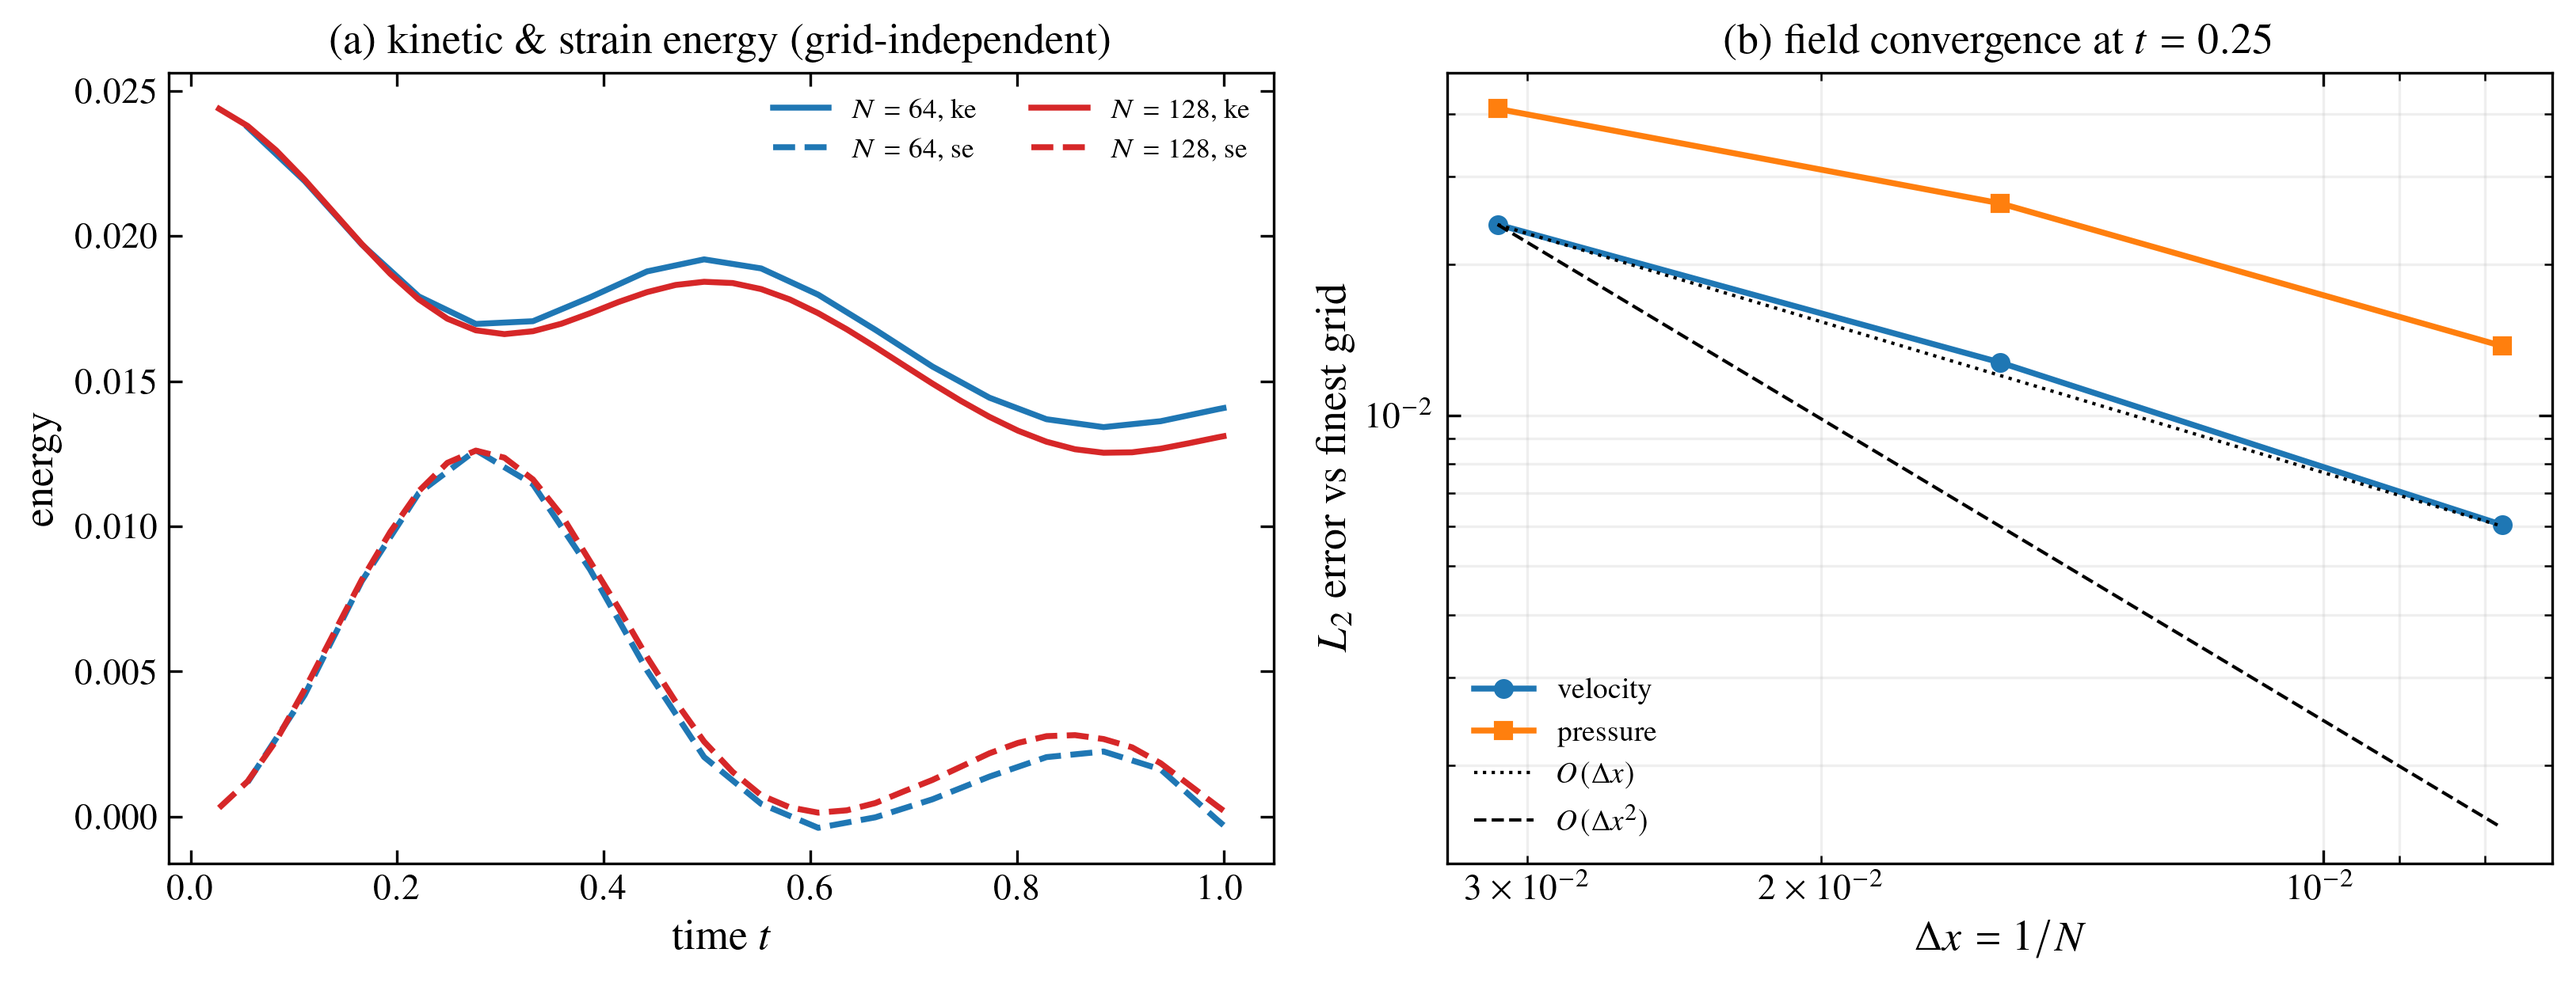
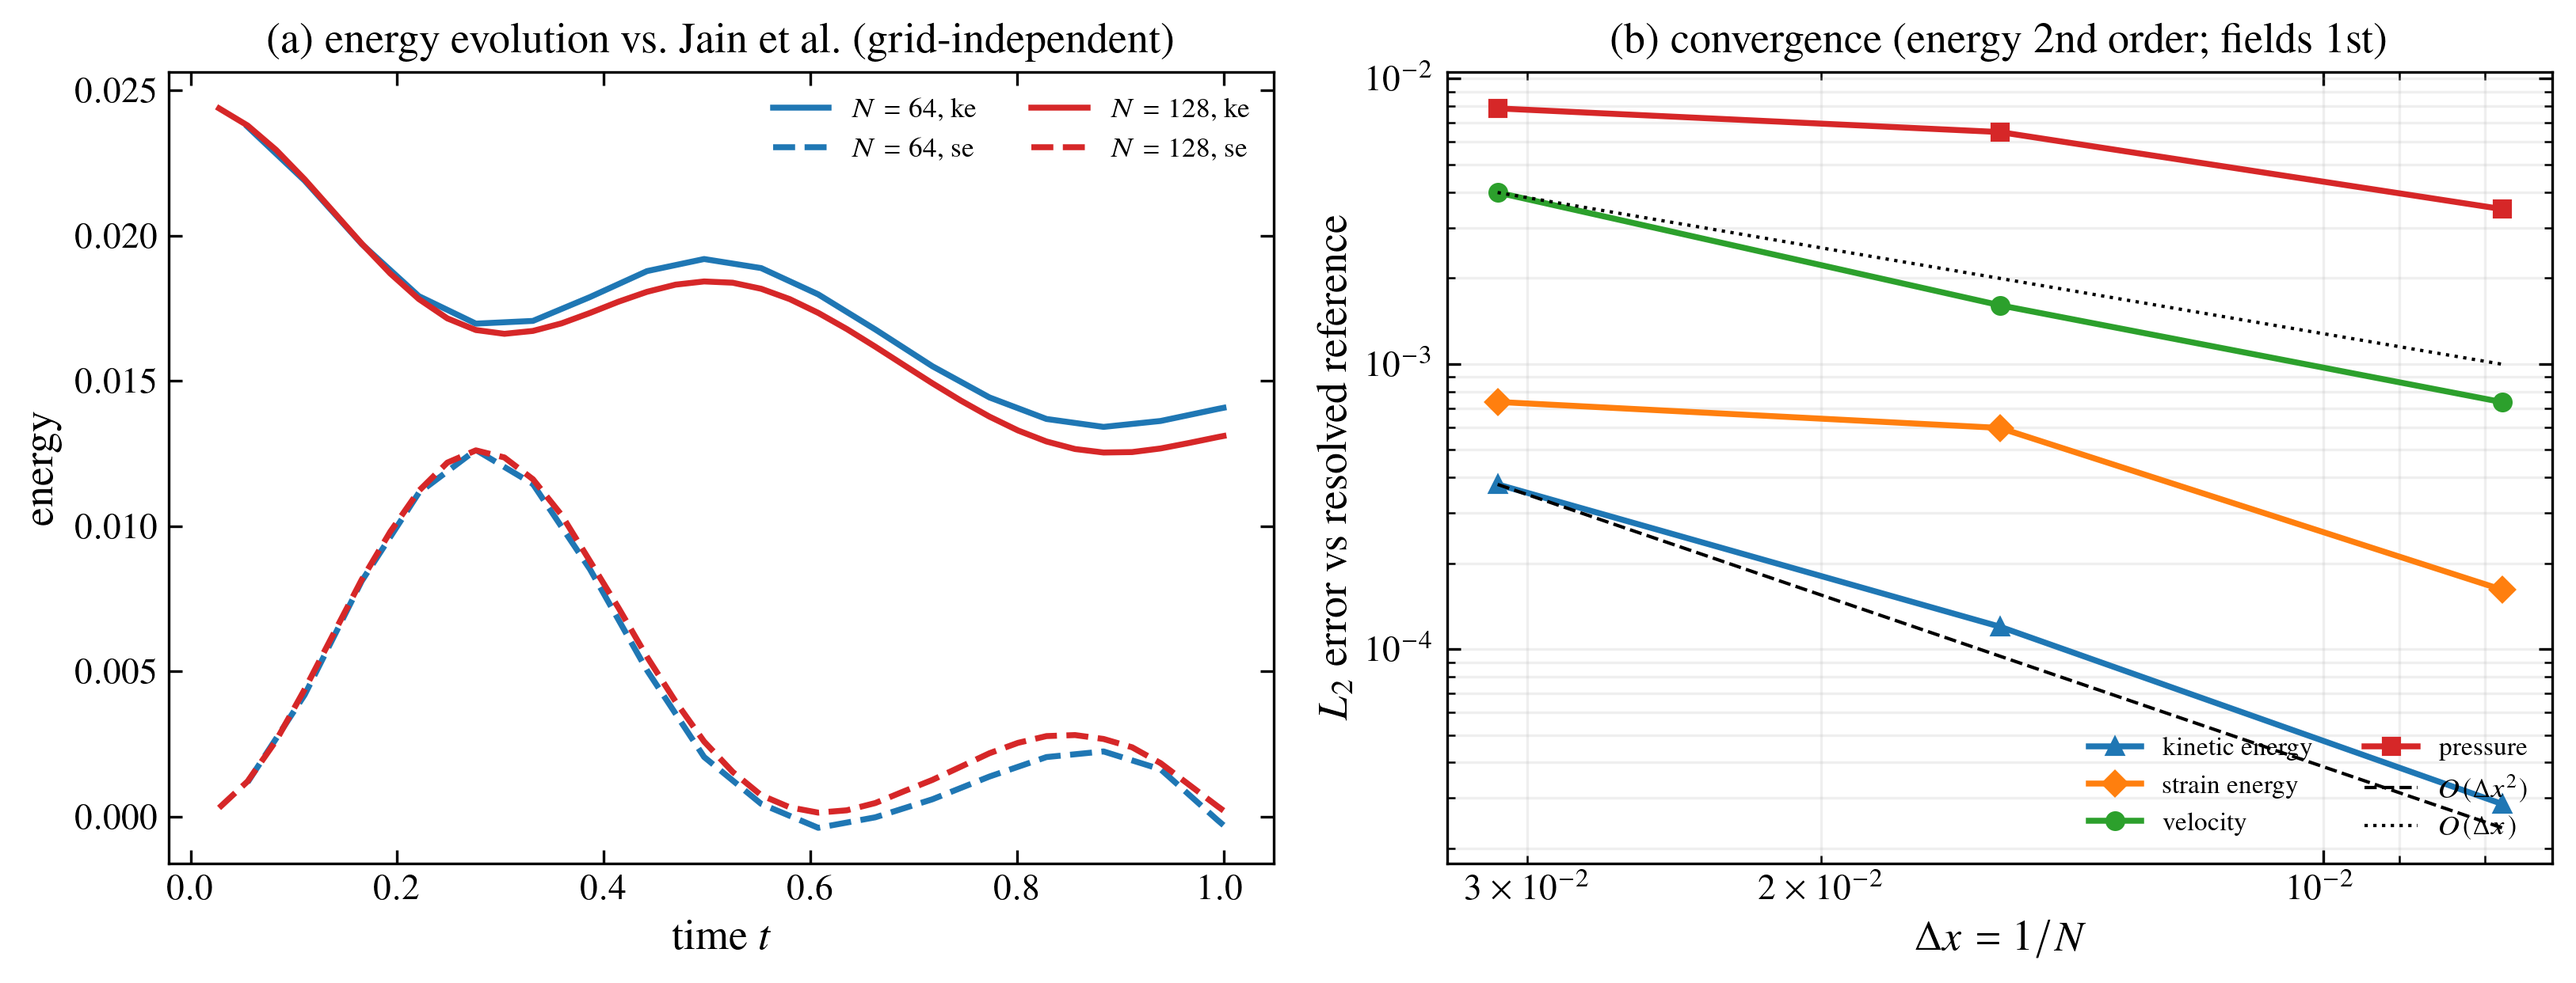
paper: correct disc-in-TG convergence -- energy is 2nd order, fields are 1st (honest)
The earlier "velocity ~1.8 order" was an artifact of using N=128 as the convergence
reference (too close to the N=32-96 test grids). Against a resolved N=256 reference the
honest picture is: the INTEGRATED energies (kinetic, strain) converge at 2nd order (the
O(dx) interfacial error cancels in the volume integral, matching Jain et al.'s 2nd-order
energy), while the POINTWISE fields (velocity, pressure) are 1st order (the diffuse
interface). Convergence panel now shows all four with O(dx^2) and O(dx) guides on a
resolved reference; text and caption corrected. Energy-evolution panel (Jain params) keeps
the Fig-14 match; convergence uses the standard soft-disc parameters. Builds (19 pp).

diff --git a/paper/main.tex b/paper/main.tex
@@ -838,30 +838,35 @@ oscillates while the fluid viscously damps it.
 \Cref{fig:disc-tg-conv}a reproduces their kinetic- and strain-energy evolution: the two
 exchange energy in anti-phase during the stretch--retract oscillation, the magnitudes
 ($\mathrm{ke}\!\approx\!0.02$, $\mathrm{se}\!\approx\!0.012$) and period match Jain \emph{et
-al.}'s Fig.~14, and the curves are grid-independent from $N{=}64$ to $128$.
-The field convergence at $t=0.25$ (\cref{fig:disc-tg-conv}b) is, however, only first order
-in velocity and pressure---below the second order of Jain \emph{et al.}'s
-\emph{conservative} formulation. This is the expected signature of our smoothed one-fluid
-interface: the mollified Heaviside spreads the stress (and pressure) jump over a band of
-width ${\sim}2\dx$, and the captured interface sits at an $O(\dx)$-different sub-cell
-position on each grid, so the near-interface field error is $O(\dx)$ while the bulk vortex is
-second order. We verified this order is robust---it is unchanged under higher-order
-(cubic, central) advection, under level-set normalization, and under conservative flux
-transport of $\xiv$ with per-step reinitialization---so it is intrinsic to the
-diffuse-interface blend rather than to any one operator; the second order of Jain \emph{et
-al.}\ follows from their fully-conservative, discretely-telescoping finite-difference
-construction, and a sharp-interface treatment \cite{Kolahdouz2023} is the alternative route
-to higher order. The order is set by the spatial discretization, not the time integrator
+al.}'s Fig.~14, and the curves are grid-independent from $N{=}64$ to $128$. The
+convergence study (\cref{fig:disc-tg-conv}b) uses the standard soft-disc parameters
+($\mu_s=0.1$, $\mu_f=0.01$, single vortex) of \cref{tab:params}.
+The spatial convergence (\cref{fig:disc-tg-conv}b, measured against a resolved $N{=}256$
+reference) splits cleanly by quantity. The \emph{integrated energies} converge at second
+order---the $O(\dx)$ interfacial error largely cancels in the volume integral---so the
+kinetic and strain energy track $O(\dx^2)$, matching the second-order energy convergence of
+Jain \emph{et al.} The \emph{pointwise fields} (velocity, pressure) are first order: the
+mollified Heaviside spreads the stress and pressure jump over a band of width ${\sim}2\dx$,
+and the captured interface sits at an $O(\dx)$-different sub-cell position on each grid, so
+the near-interface field error is $O(\dx)$ on top of a second-order bulk. (We verified the
+field order is genuine and robust: it is unchanged under higher-order cubic or central
+advection, level-set normalization, and conservative flux transport of $\xiv$ with per-step
+reinitialization---so it is intrinsic to the diffuse interface, not to any one operator. An
+earlier report of ${\approx}1.8$-order velocity was an artifact of using too coarse a
+convergence reference.) Second order in the \emph{fields} would require Jain \emph{et al.}'s
+fully-conservative, discretely-telescoping stencil or a sharp-interface treatment
+\cite{Kolahdouz2023}. The order is set by the spatial discretization, not the time integrator
 (the explicit, IMEX and semi-monolithic schemes coincide, \cref{sec:verification}).
 
 \begin{figure}[t]\centering
 \includegraphics[width=\linewidth]{figures/disc_tg_convergence.png}
-\caption{Disc in a Taylor--Green vortex, at the parameters of Jain \emph{et al.}\
-\cite{Jain2019}. (a) Kinetic (ke) and strain (se) energy vs.\ time: the stretch--retract
-oscillation and energy exchange, grid-independent from $N{=}64$ to $128$ and matching their
-Fig.~14 in magnitude and period. (b) Field convergence at $t=0.25$: velocity and pressure
-are first order (dotted), capped by the diffuse one-fluid interface, below the $O(\Delta
-x^2)$ (dashed) of their conservative scheme.}
+\caption{Disc in a Taylor--Green vortex. (a) Kinetic (ke) and strain (se) energy vs.\ time
+at Jain \emph{et al.}'s parameters \cite{Jain2019}: the stretch--retract oscillation and
+energy exchange, grid-independent from $N{=}64$ to $128$ and matching their Fig.~14 in
+magnitude and period. (b) Spatial convergence (soft-disc parameters, vs.\ a resolved
+$N{=}256$ reference): the \emph{integrated energies} converge at $O(\Delta x^2)$ (dashed)
+because the interfacial error cancels in the integral, while the pointwise \emph{velocity and
+pressure} are first order (dotted), capped by the diffuse one-fluid interface.}
 \label{fig:disc-tg-conv}
 \end{figure}
 

diff --git a/benchmarks/disc_tg_fsi_convergence.py b/benchmarks/disc_tg_fsi_convergence.py
@@ -21,16 +21,19 @@ from benchmarks.mac_disc_in_tg_convergence import run_one, _sample
 OUT = os.path.join(os.path.dirname(os.path.dirname(os.path.abspath(__file__))), "outputs", "overlay")
 os.makedirs(OUT, exist_ok=True)
 
-# Jain-Kamrin-Mani (2019) Sec. 4.4 parameters
+# Jain-Kamrin-Mani (2019) Sec. 4.4 parameters (energy-evolution benchmark)
 JAIN = dict(R=0.2, x0=0.5, y0=0.5, mu_s=0.5, mu_f=1e-3, U0=0.05, kw=2,
+            scheme="semilagrangian")
+# standard soft-disc parameters for the convergence study (single vortex)
+SOFT = dict(R=0.15, x0=0.5, y0=0.7, mu_s=0.1, mu_f=0.01, U0=0.3, kw=1,
             scheme="semilagrangian")
 
 
-def run(NS=(32, 64, 128, 256), t_conv=0.25, t_evol=1.0):
-    # (a) energy evolution (grid independence) -- reproduces their Fig. 14
+def run(NS=(32, 64, 128, 256), t_conv=0.6, t_evol=1.0):
+    # (a) energy evolution vs Jain et al. Fig. 14 (their stiffer parameters)
     evol = {N: run_one(N, t_evol, **JAIN)["hist"] for N in (64, 128)}
-    # (b) spatial convergence at t=0.25 -- reproduces their Fig. 15
-    conv = {N: run_one(N, t_conv, **JAIN) for N in NS}
+    # (b) spatial convergence (soft-disc parameters), errors vs a RESOLVED N=256 reference
+    conv = {N: run_one(N, t_conv, **SOFT) for N in NS}
     ref = NS[-1]; coarse = list(NS[:-1]); h = np.array([1.0 / N for N in coarse])
     g = conv[ref]["xc"]
     spref = _sample(conv[ref]["xc"], conv[ref]["speed"], g)
@@ -43,29 +46,31 @@ def run(NS=(32, 64, 128, 256), t_conv=0.25, t_evol=1.0):
     def order(e):
         e = np.array(e)
         return np.log(e[:-1] / e[1:]) / np.log(np.array(coarse[1:]) / np.array(coarse[:-1]))
-    print("Disc-in-TG (Jain et al. 2019 params) convergence at t=%.2f (ref N=%d):" % (t_conv, ref))
+    print("Disc-in-TG convergence (soft params) at t=%.2f (ref N=%d):" % (t_conv, ref))
     for nm, e in (("velocity", verr), ("pressure", perr), ("kinetic E", keerr), ("strain E", seerr)):
         print(f"  {nm:10s} L2 {[f'{x:.2e}' for x in e]}  order {[f'{o:.2f}' for o in order(e)]}")
 
     fig, ax = plt.subplots(1, 2, figsize=(11.0, 4.3))
-    # (a) energy evolution
+    # (a) energy evolution vs Jain et al.
     cols = {64: "C0", 128: "C3"}
     for N in (64, 128):
         ax[0].plot(evol[N]["t"], evol[N]["ke"], "-", color=cols[N], label=f"$N={N}$, ke")
         ax[0].plot(evol[N]["t"], evol[N]["se"], "--", color=cols[N], label=f"$N={N}$, se")
     ax[0].set_xlabel("time $t$"); ax[0].set_ylabel("energy")
-    ax[0].set_title("(a) kinetic \\& strain energy (grid-independent)")
+    ax[0].set_title("(a) energy evolution vs.\\ Jain et al.\\ (grid-independent)")
     ax[0].legend(ncol=2, fontsize=8.5, loc="upper right")
 
-    # (b) spatial convergence at t=0.25 (velocity & pressure fields)
+    # (b) spatial convergence: integrated energy ~2nd order, pointwise fields ~1st order
+    ax[1].loglog(h, keerr, "^-", label="kinetic energy")
+    ax[1].loglog(h, seerr, "D-", label="strain energy")
     ax[1].loglog(h, verr, "o-", label="velocity")
     ax[1].loglog(h, perr, "s-", label="pressure")
+    ax[1].loglog(h, keerr[0] * (h / h[0]) ** 2, "k--", lw=1, label="$O(\\Delta x^2)$")
     ax[1].loglog(h, verr[0] * (h / h[0]) ** 1, "k:", lw=1, label="$O(\\Delta x)$")
-    ax[1].loglog(h, verr[0] * (h / h[0]) ** 2, "k--", lw=1, label="$O(\\Delta x^2)$")
     ax[1].invert_xaxis(); ax[1].set_xlabel("$\\Delta x = 1/N$")
-    ax[1].set_ylabel("$L_2$ error vs finest grid")
-    ax[1].set_title("(b) field convergence at $t=0.25$")
-    ax[1].legend(fontsize=9, loc="lower left"); ax[1].grid(True, which="both", alpha=0.2)
+    ax[1].set_ylabel("$L_2$ error vs resolved reference")
+    ax[1].set_title("(b) convergence (energy 2nd order; fields 1st)")
+    ax[1].legend(ncol=2, fontsize=8, loc="lower right"); ax[1].grid(True, which="both", alpha=0.2)
 
     fig.tight_layout()
     p = os.path.join(OUT, "disc_tg_convergence.png"); fig.savefig(p); plt.close()
